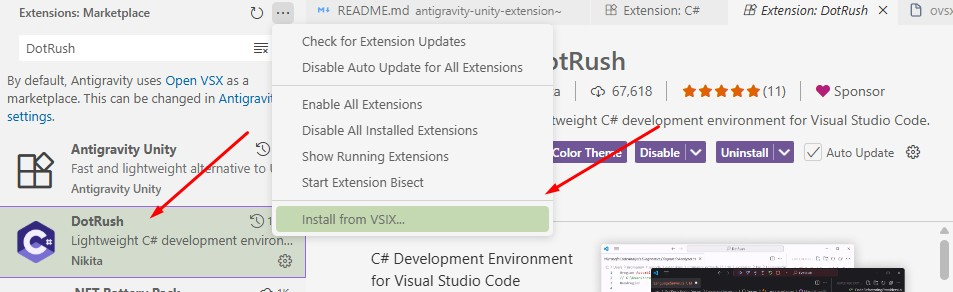
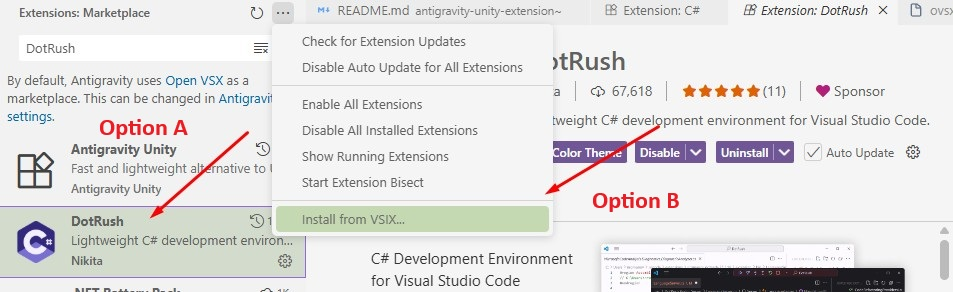
release: v1.2.9 [skip ci]

Changed region(s): [[0.6086, 0.6473, 0.7303, 0.7397], [0.0913, 0.4007, 0.213, 0.4623]]

diff --git a/README.md b/README.md
@@ -50,16 +50,19 @@ Or use Unity Package Manager → Add package from git URL:
 https://github.com/billythekidz/UnityAntigravityIDE.git
 ```
 
-### Antigravity/VS Code Extension
-Install the VSIX from the `antigravity-unity-extension~/` folder:
-1. Open Antigravity IDE / VS Code
-2. `Ctrl+Shift+P` → "Extensions: Install from VSIX..."
-3. Select `antigravity-unity-1.2.0.vsix`
+### 1. Antigravity Unity IDE Extension
+The extension provides Unity debugger, syntax highlighting for shaders, and deep IDE integration. 
 
-### DotRush (auto-installed)
-DotRush provides C# IntelliSense and debugging. It will be **prompted for installation automatically** when the Antigravity Unity extension activates.
+- **Option A (Marketplace):** Search for **"Antigravity Unity"** in the Extensions Marketplace (or Open VSX) and install.
+- **Option B (Manual VSIX):** Download the latest `.vsix` from our [GitHub Releases](https://github.com/billythekidz/UnityAntigravityIDE/releases/latest) and install via `Extensions: Install from VSIX...`.
 
-Manual install: Search "DotRush" in the extensions marketplace or install `nromanov.dotrush`.
+### 2. DotRush (Mandatory for IntelliSense)
+**DotRush is REQUIRED** for C# IntelliSense and debugging.
+
+- **Marketplace:** Search for **"DotRush"** or install `nromanov.dotrush`.
+- **Manual install:** Download from [Open VSX](https://open-vsx.org/extension/nromanov/dotrush) if using an offline environment.
+
+![Installation Guide](https://raw.githubusercontent.com/billythekidz/UnityAntigravityIDE/main/assets/dotrush_guide.jpg)
 
 ---
 
